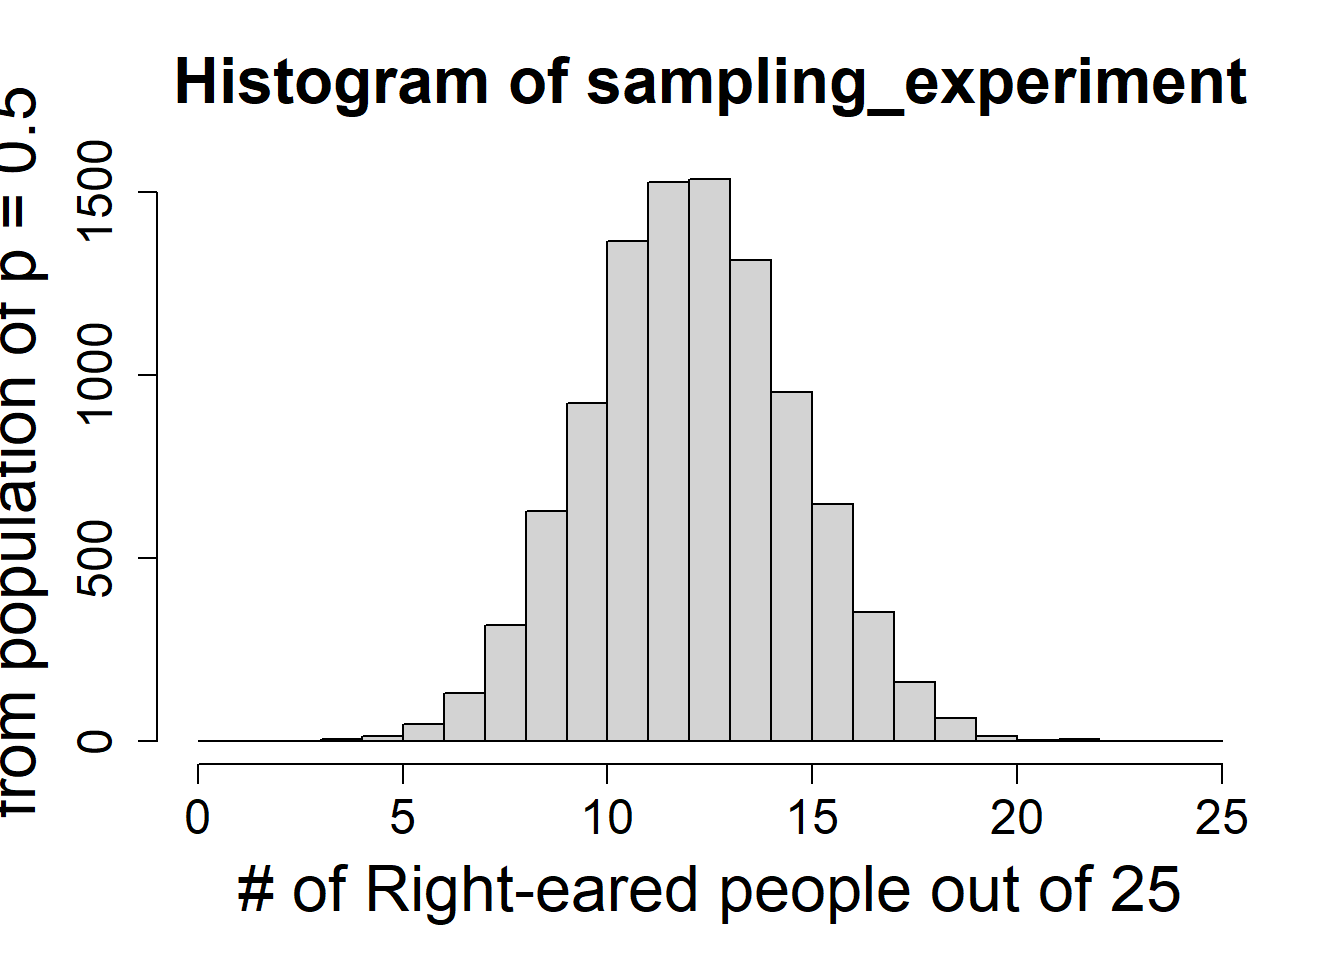
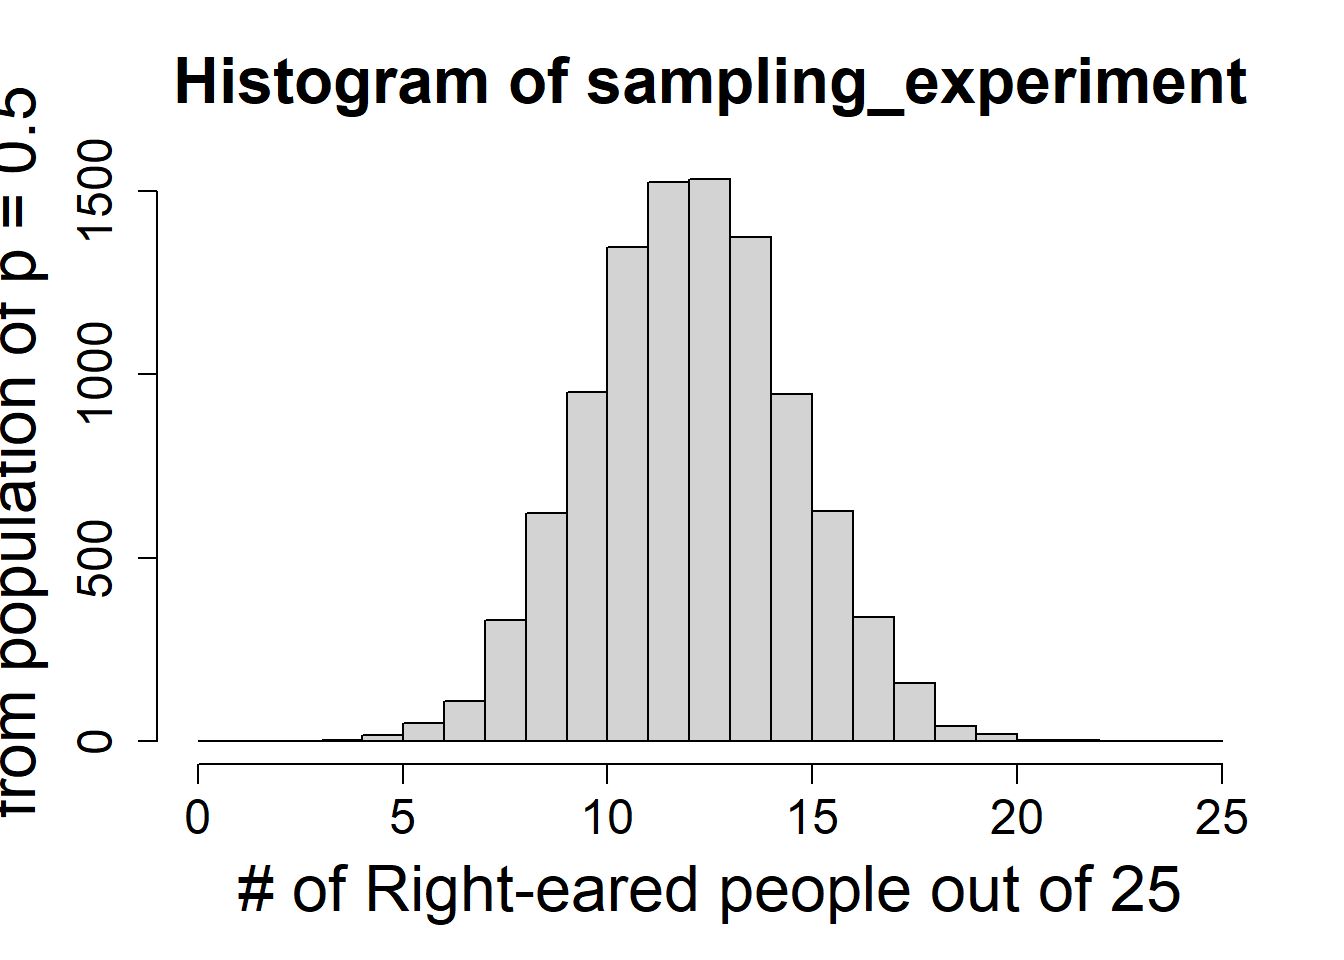
Built site for gh-pages

diff --git a/content/solutions/3_Introduction_to_hypothesis_testing_via_binomial_test_solutions.html b/content/solutions/3_Introduction_to_hypothesis_testing_via_binomial_test_solutions.html
@@ -554,6 +554,7 @@ pre > code.sourceCode > span > a:first-child::before { text-decoration: underlin
   <ul>
   <li><a href="#section" id="toc-section" class="nav-link" data-scroll-target="#section">1</a></li>
   <li><a href="#section-1" id="toc-section-1" class="nav-link" data-scroll-target="#section-1">2</a></li>
+  <li><a href="#section-2" id="toc-section-2" class="nav-link" data-scroll-target="#section-2">3</a></li>
   </ul></li>
   </ul>
 <div class="toc-actions"><ul><li><a href="https://github.com/jsgosnell/cuny_biostats_book/edit/main/content/solutions/3_Introduction_to_hypothesis_testing_via_binomial_test_solutions.qmd" class="toc-action"><i class="bi bi-github"></i>Edit this page</a></li><li><a href="https://github.com/jsgosnell/cuny_biostats_book/blob/main/content/solutions/3_Introduction_to_hypothesis_testing_via_binomial_test_solutions.qmd" class="toc-action"><i class="bi empty"></i>View source</a></li><li><a href="https://github.com/jsgosnell/cuny_biostats_book/issues/new" class="toc-action"><i class="bi empty"></i>Report an issue</a></li></ul></div></nav>
@@ -753,7 +754,7 @@ probability of success
 <div class="cell">
 <div class="sourceCode cell-code" id="cb18"><pre class="sourceCode r code-with-copy"><code class="sourceCode r"><span id="cb18-1"><a href="#cb18-1" aria-hidden="true" tabindex="-1"></a><span class="fu">length</span>(sampling_experiment[sampling_experiment <span class="sc">&gt;=</span> <span class="dv">19</span> <span class="sc">|</span> sampling_experiment <span class="sc">&lt;=</span> <span class="dv">6</span>])<span class="sc">/</span><span class="fu">length</span>(sampling_experiment)</span></code><button title="Copy to Clipboard" class="code-copy-button"><i class="bi"></i></button></pre></div>
 <div class="cell-output cell-output-stdout">
-<pre><code>[1] 0.0151</code></pre>
+<pre><code>[1] 0.0137</code></pre>
 </div>
 </div>
 <ul>
@@ -839,6 +840,14 @@ probability of success
 </div>
 </div>
 <p><em>I chose to use a sided test since the professor wants to know if the students helped the dog.I found a p-value of .04, so I reject the null hypothesis that the proportion of correct answers is .25 (what I would expect by chance).</em></p>
+</section>
+<section id="section-2" class="level3">
+<h3 class="anchored" data-anchor-id="section-2">3</h3>
+<p>Find an example of a research article that is related to your research or a field of interest that that includes a binomial test (hint: use Google Scholar or another search engine to search for a keyword of interest plus “binomial test” in quotes). Briefly answer the following questions</p>
+<ul>
+<li>What is the name of the paper and who are the authors?</li>
+<li>What is the main finding related to the test?</li>
+</ul>
 
 
 </section>

diff --git a/content/practice_problems/3_Introduction_to_hypothesis_testing_via_binomial_test.html b/content/practice_problems/3_Introduction_to_hypothesis_testing_via_binomial_test.html
@@ -557,6 +557,7 @@ pre > code.sourceCode > span > a:first-child::before { text-decoration: underlin
   <ul>
   <li><a href="#section" id="toc-section" class="nav-link" data-scroll-target="#section">1</a></li>
   <li><a href="#section-1" id="toc-section-1" class="nav-link" data-scroll-target="#section-1">2</a></li>
+  <li><a href="#section-2" id="toc-section-2" class="nav-link" data-scroll-target="#section-2">3</a></li>
   </ul></li>
   </ul>
 <div class="toc-actions"><ul><li><a href="https://github.com/jsgosnell/cuny_biostats_book/edit/main/content/practice_problems/3_Introduction_to_hypothesis_testing_via_binomial_test.qmd" class="toc-action"><i class="bi bi-github"></i>Edit this page</a></li><li><a href="https://github.com/jsgosnell/cuny_biostats_book/blob/main/content/practice_problems/3_Introduction_to_hypothesis_testing_via_binomial_test.qmd" class="toc-action"><i class="bi empty"></i>View source</a></li><li><a href="https://github.com/jsgosnell/cuny_biostats_book/issues/new" class="toc-action"><i class="bi empty"></i>Report an issue</a></li></ul></div></nav>
@@ -714,6 +715,14 @@ probability of success
 <h3 class="anchored" data-anchor-id="section-1">2</h3>
 <p>A professor lets his dog take every multiple-choice test to see how it compares to his students (I know someone who did this). Unfortunately, the professor believes undergraduates in the class tricked him by helping the dog do better on a test. It’s a 100 question test, and every questions has 4 answer choices. For the last test, the dog picked 33 questions correctly. How likely is this to happen, and is there evidence the students helped the dog?</p>
 <p><strong>MAKE SURE TO THINK ABOUT YOUR TEST OPTIONS</strong></p>
+</section>
+<section id="section-2" class="level3">
+<h3 class="anchored" data-anchor-id="section-2">3</h3>
+<p>Find an example of a research article that is related to your research or a field of interest that that includes a binomial test (hint: use Google Scholar or another search engine to search for a keyword of interest plus “binomial test” in quotes). Briefly answer the following questions</p>
+<ul>
+<li>What is the name of the paper and who are the authors?</li>
+<li>What is the main finding related to the test?</li>
+</ul>
 
 
 </section>

diff --git a/content/chapters/Acquiring_data.html b/content/chapters/Acquiring_data.html
@@ -605,7 +605,7 @@ div.csl-indent {
 <p>This means we have a target trait we are focused on, and we have defined a group of interest. We can call this group of interest a <em>population</em>. Note that while the term <em>population</em> may have specific meanings in some fields (such as ecology), here population is just the group of interest. It could be a population of Goliath grouper in Florida, a population of flowers in Virginia, or people from a certain country or demographic group. We could want to know something about all of these groups!</p>
 <p>As we’ve already noted, in a perfect world we know everything (or at least everything about our trait value) for every member of the focal population. However, we often don’t and can’t measure every member of a population. It may be too difficult or expensive to measure every member of the population. In fact, we may not even know how large the population is!</p>
 <p>In the cases where we can’t measure every member of the population, we collect data on the focal trait(s) from a <em>sample</em>. A sample is the subset of the population of interest. Data can be collected from samples used in experimental studies, where researchers manipulate something to see how it impacts the focal trait. Researchers may expose organisms to different stimuli in controlled lab, field, or mesocosm studies to see what happens. For example, researchers interested in impacts of an invasive crayfish (<em>Pacifastacus leniusculus</em>) on Mazama newts (<em>Taricha granulosa mazamae</em>) collected newts and crayfish.; they then placed either just newts or newts and crayfish in in large tanks to observe interactions <span class="citation" data-cites="girdner2018">(<a href="#ref-girdner2018" role="doc-biblioref">Girdner et al. 2018</a>)</span>.</p>
-<div id="fig-nps_mesocosm" class="quarto-figure quarto-figure-center quarto-float anchored" data-fig-align="center" alt="Image of people filling large black tanks on dock near lake.">
+<div id="fig-nps_mesocosm" class="quarto-figure quarto-figure-center quarto-float anchored" alt="Image of people filling large black tanks on dock near lake." data-fig-align="center">
 <figure class="quarto-float quarto-float-fig figure">
 <div aria-describedby="fig-nps_mesocosm-caption-0ceaefa1-69ba-4598-a22c-09a6ac19f8ca">
 <a href="https://www.nps.gov/articles/parkscience32_1_5-12_buktenica_et_al_3815.htm"><img src="https://www.nps.gov/common/uploads/stories/images/nri/20160414/articles/E3D75BF5-1DD8-B71B-0BAA0D9A58F1307A/E3D75BF5-1DD8-B71B-0BAA0D9A58F1307A.jpg" class="img-fluid quarto-figure quarto-figure-center figure-img" alt="Image of people filling large black tanks on dock near lake."></a>
@@ -623,7 +623,7 @@ Figure&nbsp;1: Experimental mesocosms used to evaluate Mazama newt and signal cr
 </figure>
 </div>
 <p>Different types of studies change what we can use the data for. We’ll come back to this later, but, in general, experimental studies are more commonly used to ascertain causation (something makes something happen), whereas observational studies are used to assess correlation (something happens when something else happens, also known as association). However, these can be hard to disentangle, especially since studies can only be observational since experiments would be unethical or impossible to carry out. As XKCD puts it</p>
-<div id="fig-XKCD552" class="quarto-figure quarto-figure-center quarto-float anchored" data-fig-align="center" alt="Picture of two stick figures chatting.  One says, &quot;I used to think correlation implied causation. Then I took a statistics course. Now I don't.&quot; The other figure responds &quot;Sounds like the class helped.&quot;, To which the first figure responds, &quot;Maybe.&quot;">
+<div id="fig-XKCD552" class="quarto-figure quarto-figure-center quarto-float anchored" alt="Picture of two stick figures chatting.  One says, &quot;I used to think correlation implied causation. Then I took a statistics course. Now I don't.&quot; The other figure responds &quot;Sounds like the class helped.&quot;, To which the first figure responds, &quot;Maybe.&quot;" data-fig-align="center">
 <figure class="quarto-float quarto-float-fig figure">
 <div aria-describedby="fig-XKCD552-caption-0ceaefa1-69ba-4598-a22c-09a6ac19f8ca">
 <a href="https://xkcd.com/552/"><img src="https://imgs.xkcd.com/comics/correlation.png" class="img-fluid quarto-figure quarto-figure-center figure-img" alt="Picture of two stick figures chatting.  One says, &quot;I used to think correlation implied causation. Then I took a statistics course. Now I don't.&quot; The other figure responds &quot;Sounds like the class helped.&quot;, To which the first figure responds, &quot;Maybe.&quot;"></a>
@@ -642,7 +642,7 @@ Figure&nbsp;2: XKCD: Correlation. Title text (text that pops up when you hover o
 </blockquote>
 <p>If the whole idea of statistics is to infer something about the population from our sample, we need to make sure the sample is <em>representative</em> of the population. That means it should not be <em>biased</em>. <em>Bias</em> occurs if the trait values we measure in our sample differ from the population in a consistent way. This can happen with samples of convenience, or when researchers select samples that are easy to measure but may not be representative of the population. Classic examples include estimating the amount of time students spend studying by surveying students at a campus library.</p>
 <p>Bias may also be related to issues of independence. In a good sampling design, every member of the population has the same chance of being included in a sample. Samples of convenience violate this premise, and often the underlying issue is that the samples are not independent. A perfect solution is to randomly choose members of the population to be in the sample, but that is often not possible. Again, it requires knowing every member of the population! Independence also means each data point is not related to any others!</p>
-<div id="fig-XKCD2533" class="quarto-figure quarto-figure-center quarto-float anchored" data-fig-align="center" alt="Comic strip where 2 figures discuss relationship between how loud students scream and exam grades.">
+<div id="fig-XKCD2533" class="quarto-figure quarto-figure-center quarto-float anchored" alt="Comic strip where 2 figures discuss relationship between how loud students scream and exam grades." data-fig-align="center">
 <figure class="quarto-float quarto-float-fig figure">
 <div aria-describedby="fig-XKCD2533-caption-0ceaefa1-69ba-4598-a22c-09a6ac19f8ca">
 <a href="https://xkcd.com/2533/"><img src="https://imgs.xkcd.com/comics/slope_hypothesis_testing_2x.png" class="img-fluid quarto-figure quarto-figure-center figure-img" alt="Comic strip where 2 figures discuss relationship between how loud students scream and exam grades."></a>

diff --git a/content/chapters/summarizing_data.html b/content/chapters/summarizing_data.html
@@ -815,7 +815,7 @@ Getting data into R
 <p>Overwhelming, isn’t it? And this isn’t a huge dataset! There are only 150 rows, yet some datasets have tens of thousands! It’s really hard (or impossible) to just look at these numbers and infer anything about the population. Summary statistics help us get a better mental image of the distribution of the sample data.</p>
 <blockquote class="blockquote">
 <p><strong>Aside</strong>: While summaries can help make sense of data, and eventually we’ll add p-values to think about things like significance, in best case scenarios we don’t need this! We are going to focus on graphing (visual summaries) and numerical summaries in this section, but sometimes the data speaks for itself (or through an easy graph like this one!).</p>
-<div id="fig-XKCD2400" class="quarto-figure quarto-figure-center quarto-float anchored" alt="Graph showing a clear difference over time (x-axis) between number of Covid cases (y) in placebo and vaccinated group. Note this not real data (its a comic strip)." data-fig-align="center">
+<div id="fig-XKCD2400" class="quarto-figure quarto-figure-center quarto-float anchored" data-fig-align="center" alt="Graph showing a clear difference over time (x-axis) between number of Covid cases (y) in placebo and vaccinated group. Note this not real data (its a comic strip).">
 <figure class="quarto-float quarto-float-fig figure">
 <div aria-describedby="fig-XKCD2400-caption-0ceaefa1-69ba-4598-a22c-09a6ac19f8ca">
 <a href="https://xkcd.com/2400/"><img src="https://imgs.xkcd.com/comics/statistics_2x.png" class="img-fluid quarto-figure quarto-figure-center figure-img" alt="Graph showing a clear difference over time (x-axis) between number of Covid cases (y) in placebo and vaccinated group. Note this not real data (its a comic strip)."></a>